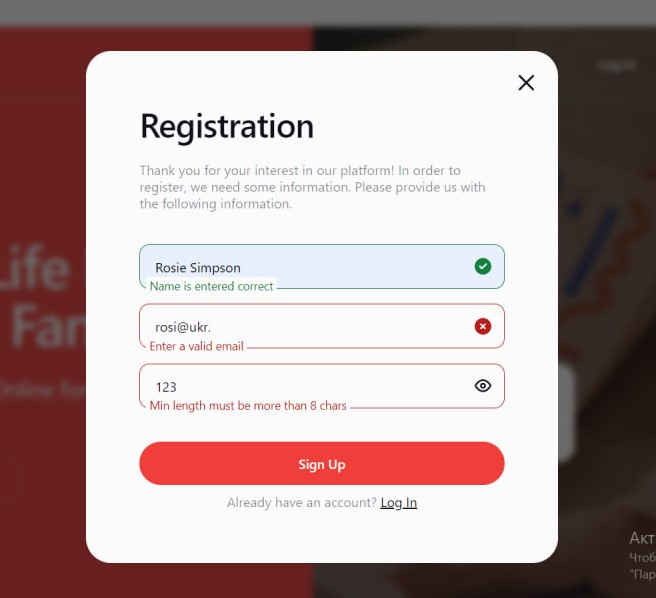
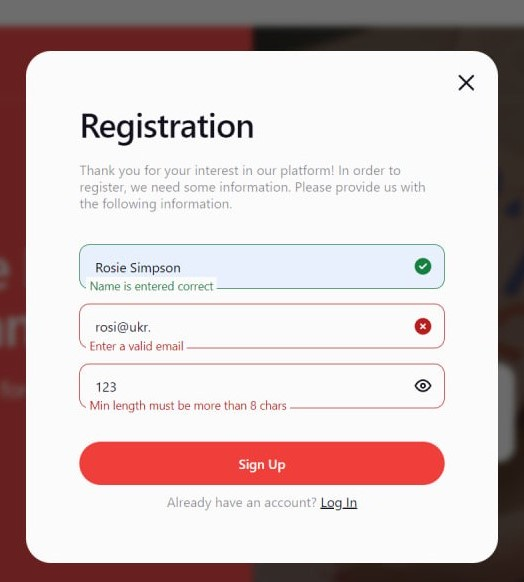
change photos

diff --git a/README.md b/README.md
@@ -8,7 +8,7 @@
 
 - Welcomes users with a site title, company slogan, and a call-to-action button redirecting to the "Nannies" page.
 
-![Home Page](./public/2.jpg)
+![Home Page](./public/1.jpg)
 
 **2. Nannies**
 
